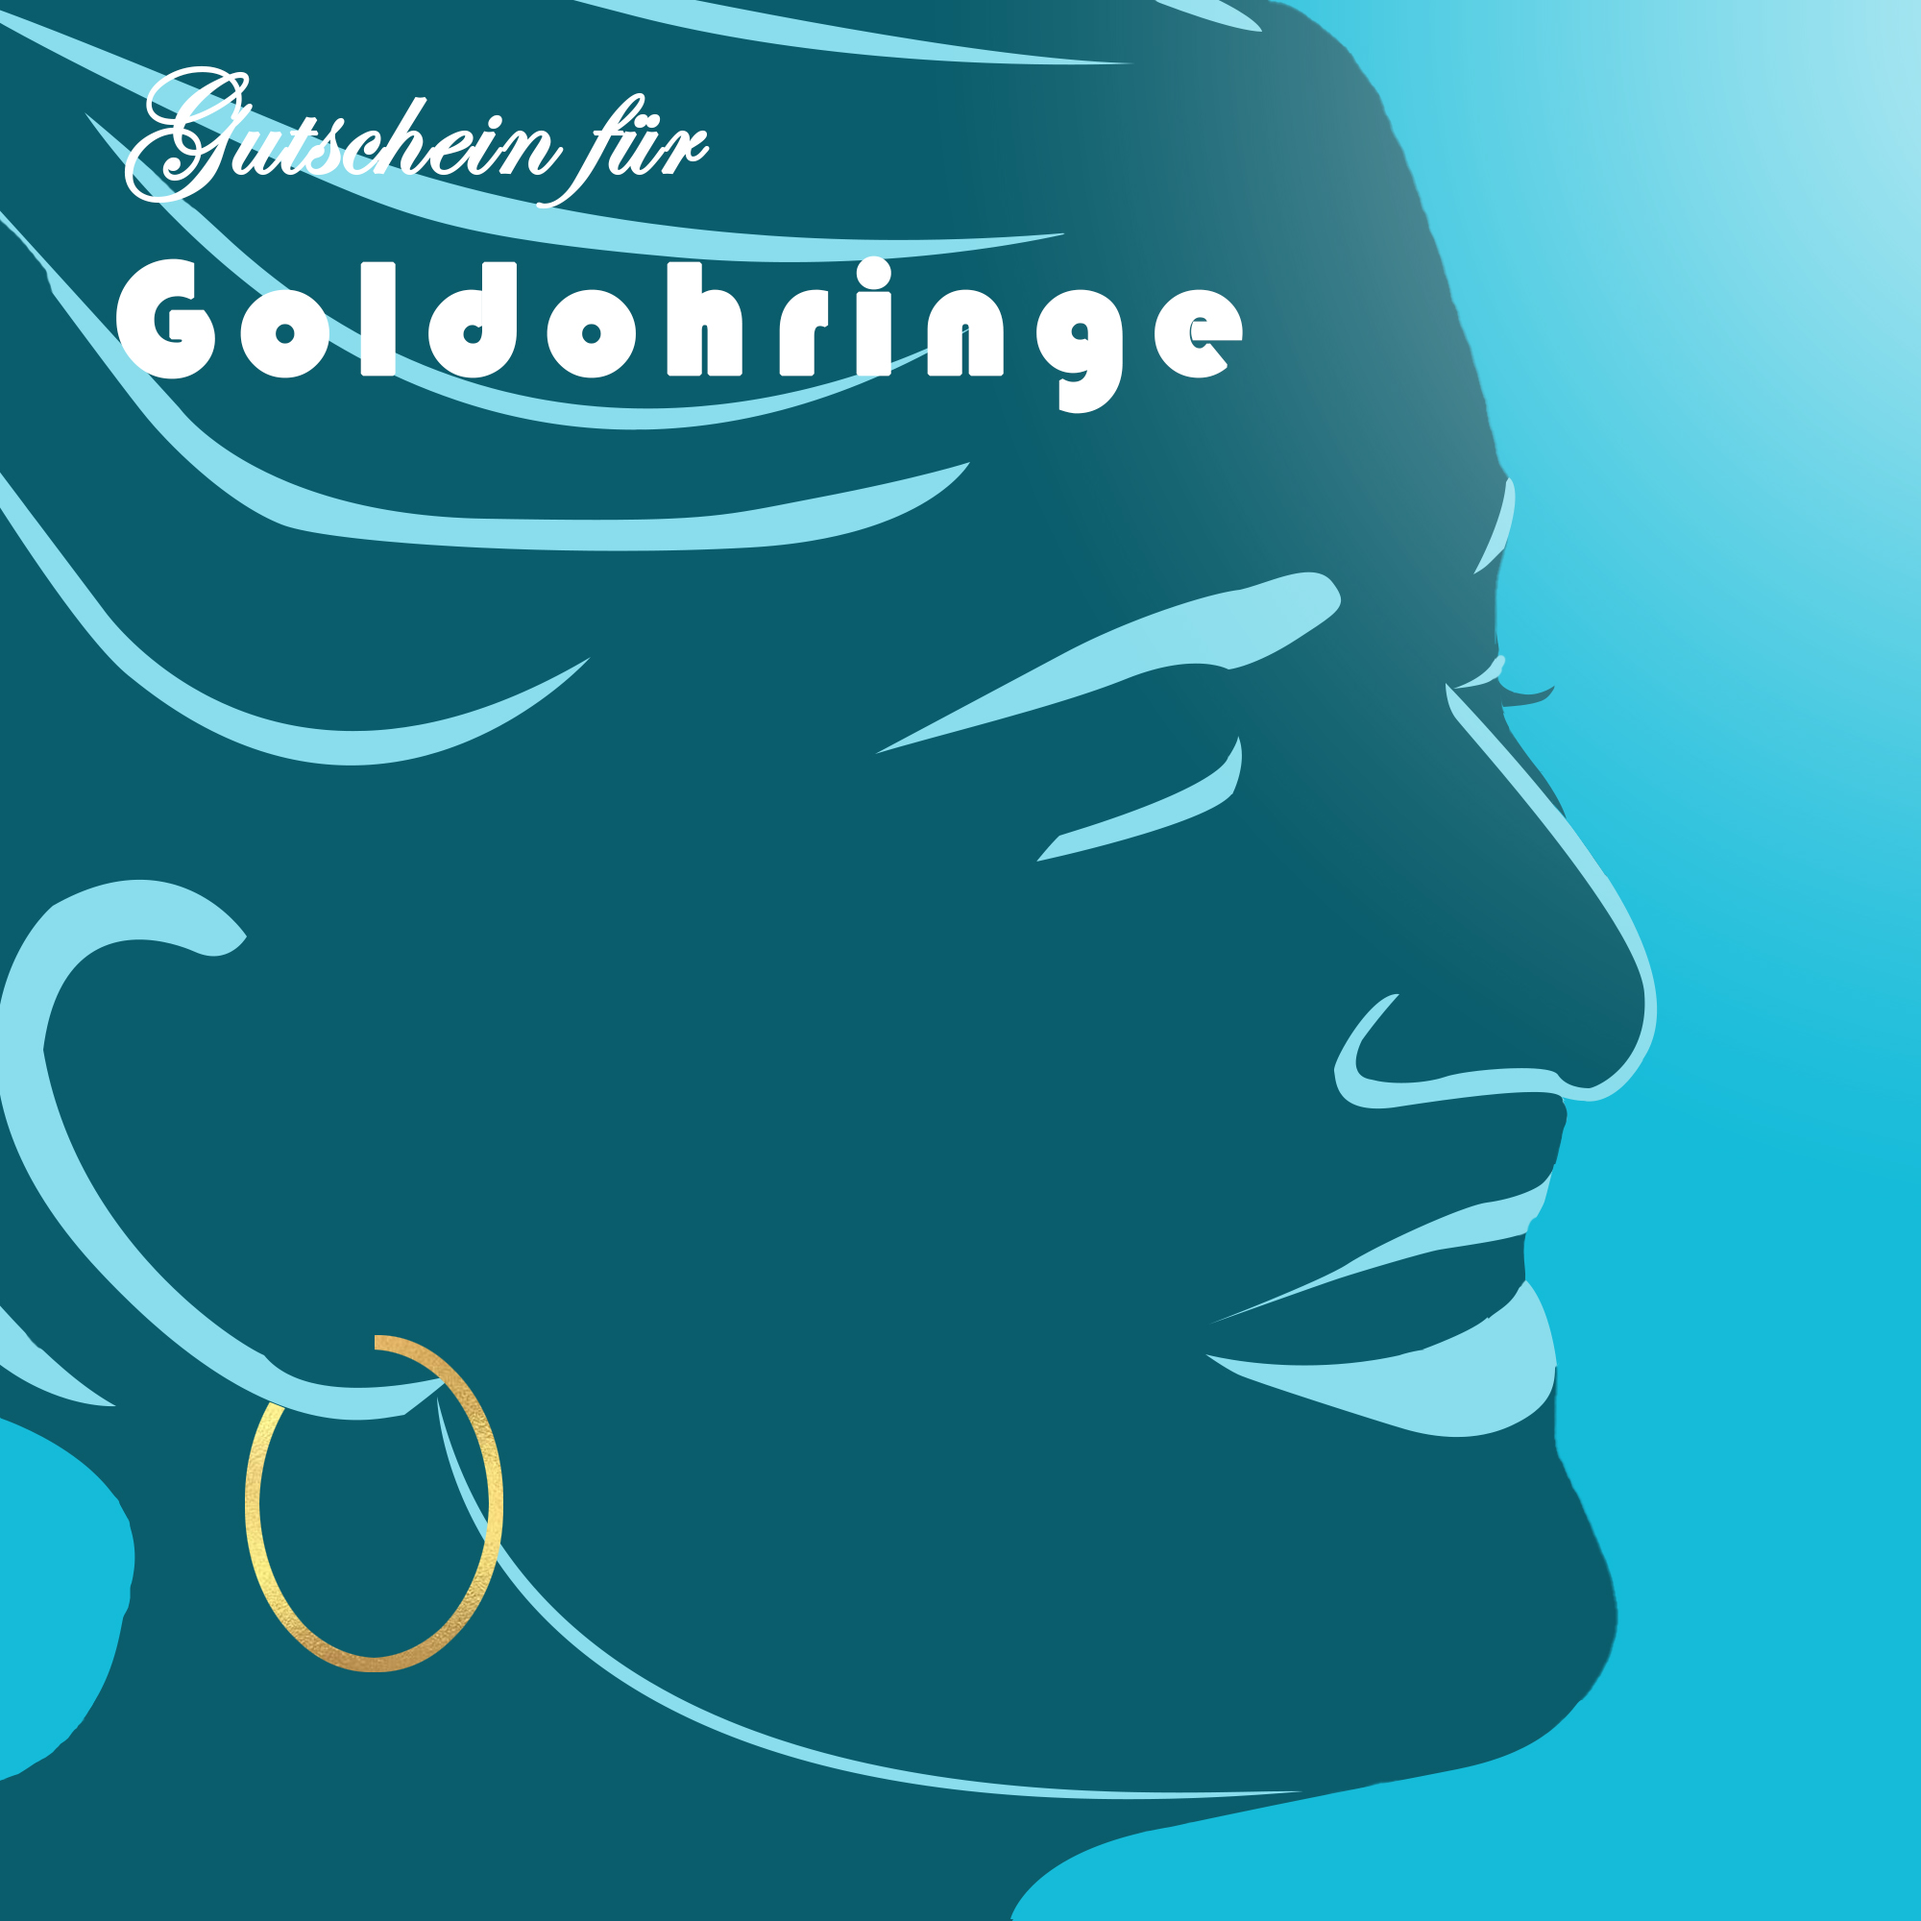
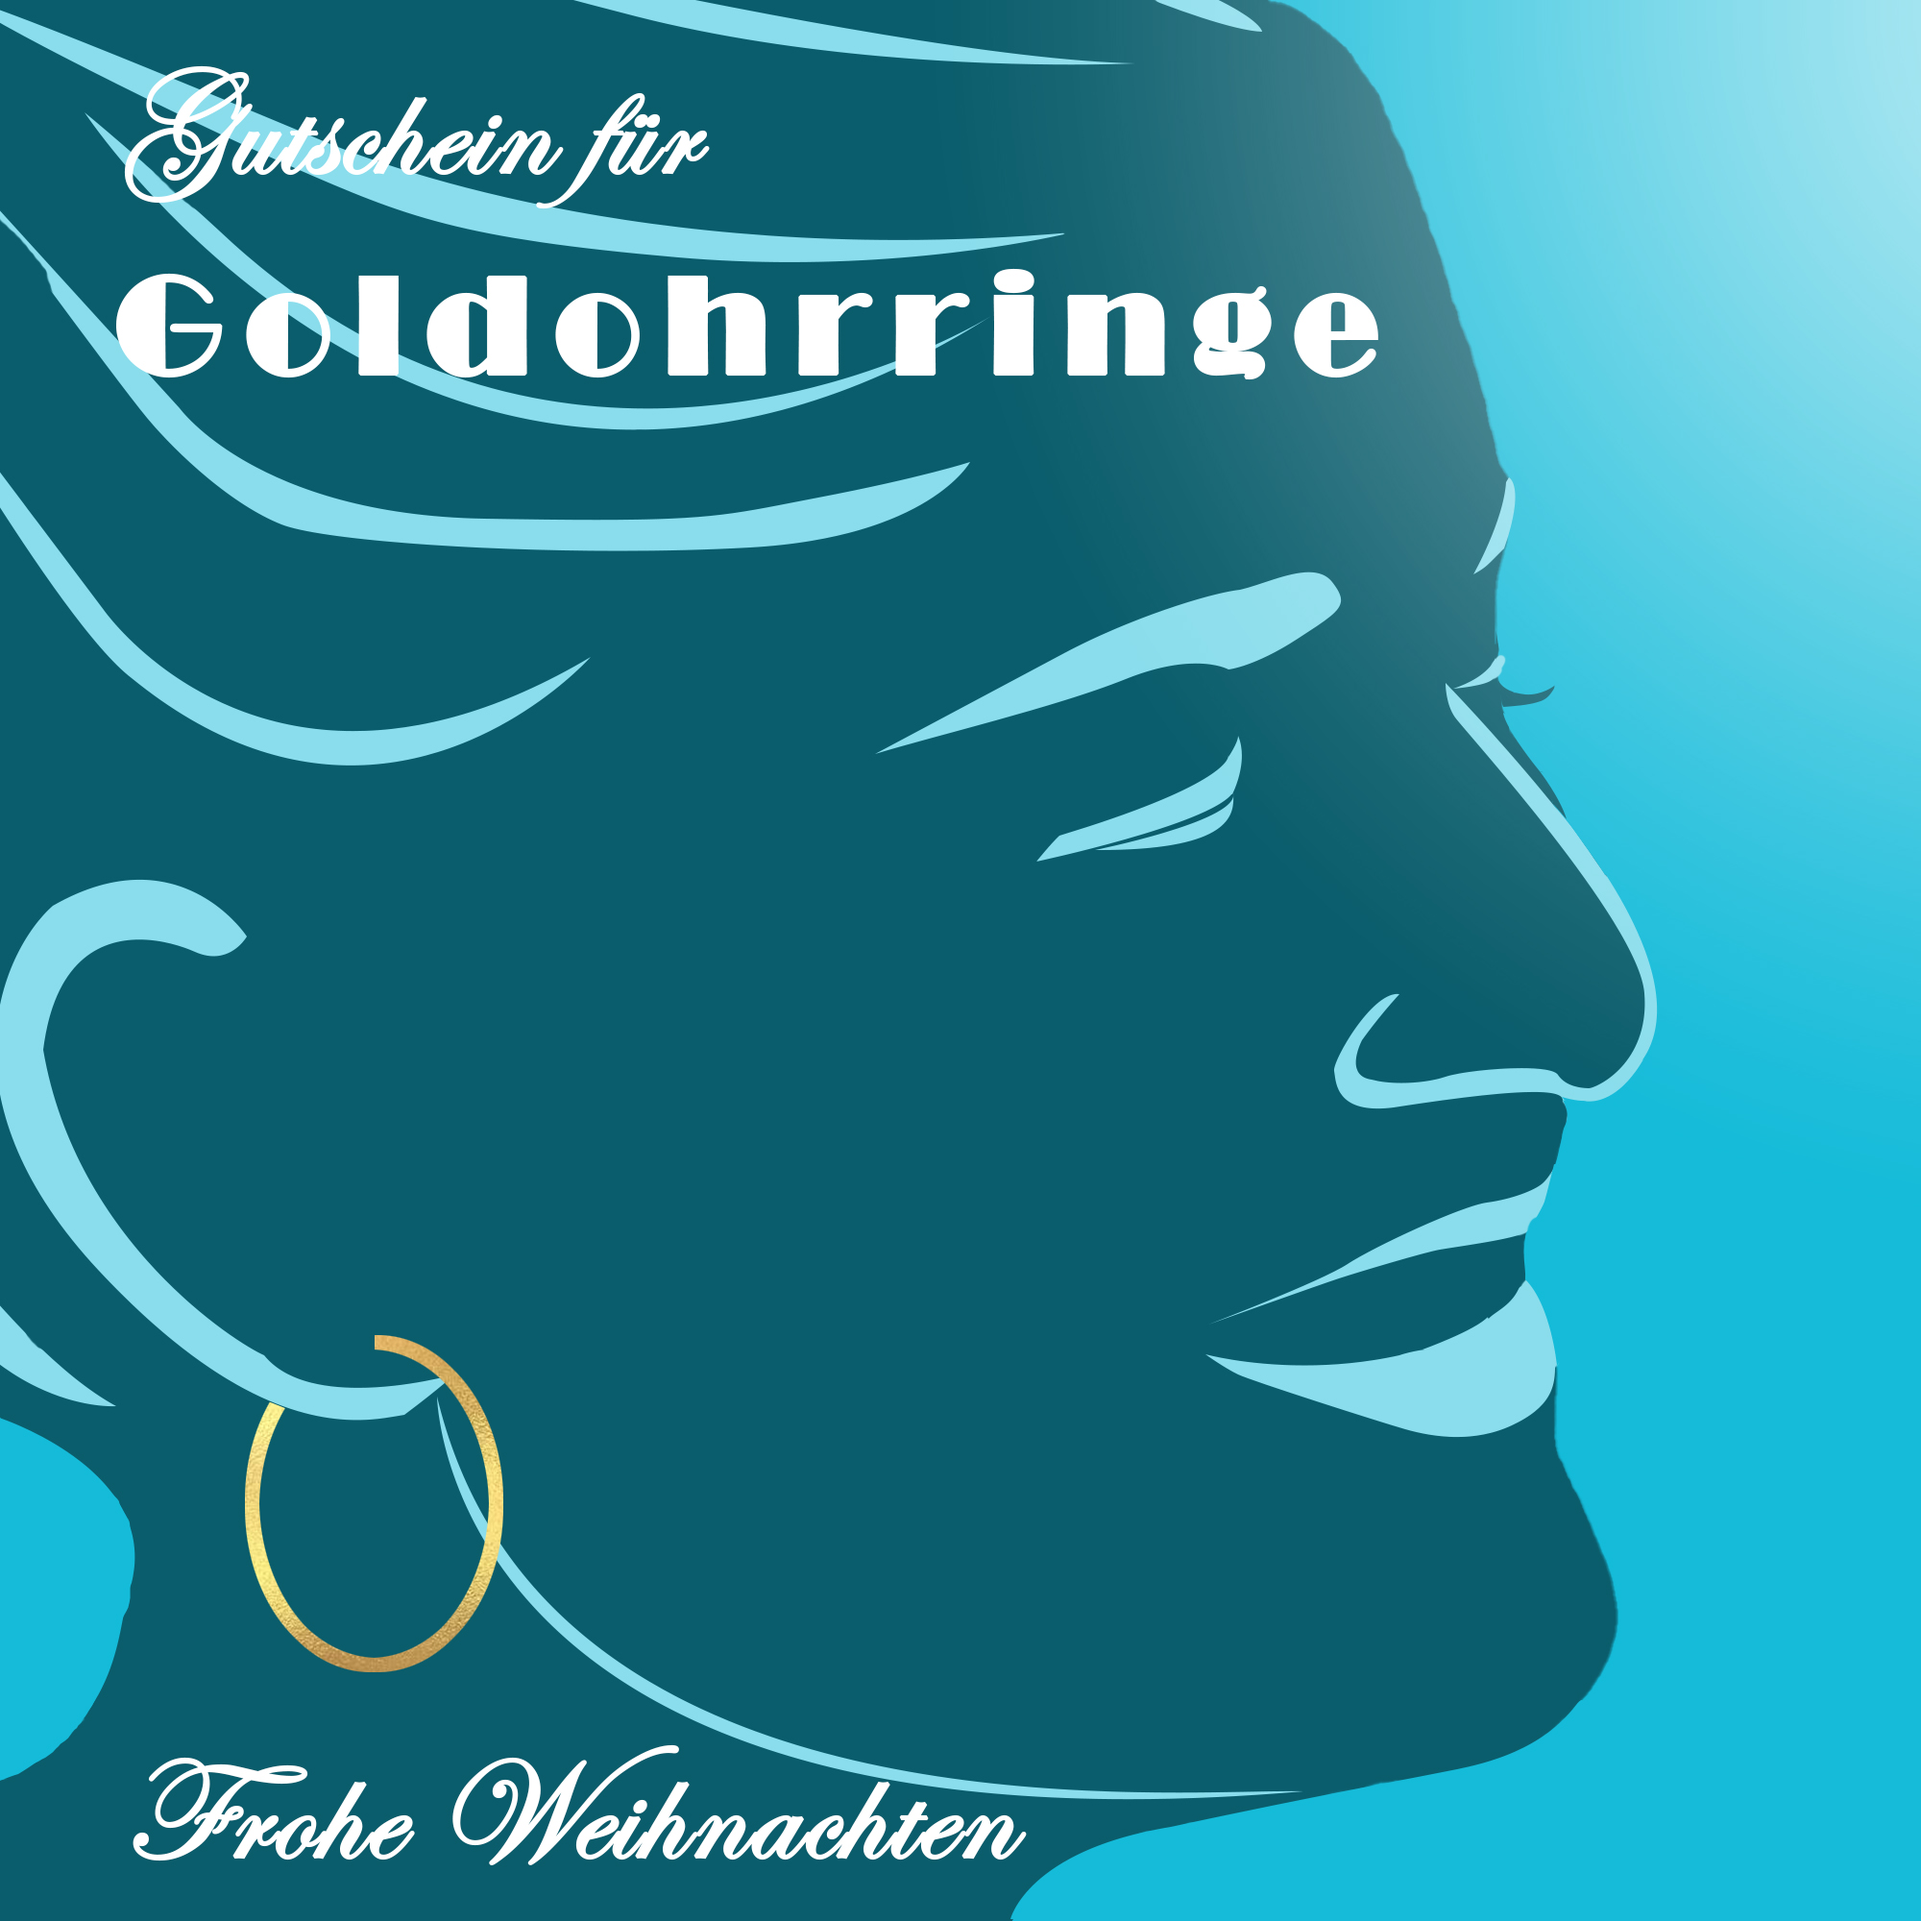
Changes

diff --git a/gutschein.js b/gutschein.js
@@ -1,3 +1,13 @@
+function simpleHash(str)
+{
+    let hash = 0;
+    for (i = 0;i < str.length; i++)
+    {
+        hash += str.charCodeAt(i);
+    }
+    return hash;
+}
+
 function submit()
 {
     var cd = document.forms["myform"]["code"].value;
@@ -5,12 +15,12 @@ function submit()
     if(hash === 871)
     {
         window.location = "gutschein.html";
-        alert("Ich liebe dich!");
+        alert("Frohe Weihnachten!");
     }
     else if(hash === 1215)
     {
         window.location = "essen.html";
-        alert("Ich liebe dich!");
+        alert("Frohe Weihnachten!");
     }
     else if(hash === 961)
     {
@@ -27,15 +37,3 @@ function submit()
         alert("The code you've entered is incorrect!");
     }
 }
-
-function simpleHash(str)
-{
-    let hash = 0;
-    for (i = 0;i < str.length; i++)
-    {
-        hash += str.charCodeAt(i);
-    }
-    return hash;
-}
-
-window.location = simpleHash(goldeneweihnachten);

diff --git a/index.html b/index.html
@@ -14,7 +14,7 @@
 <div class="main">
     
 <h1>Merry Christmas</h1>
-<h2>Gutscheinverschenkmaschine 2020</h2>
+<h2>Gutscheinverschenkmaschine 2021</h2>
 
 <form name="myform">
     <label><br>Giftcode:<br></label>

diff --git a/ohrring.html b/ohrring.html
@@ -6,7 +6,7 @@
 </head>
 
 <body>
-<body style="background-color:#020820;">
+<body style="background-color:#0a5d6c;">
 
     <img src="Images/Ohrringe.jpg" alt="Gutschein" style="width: 100%;max-width: 1100px">
 
